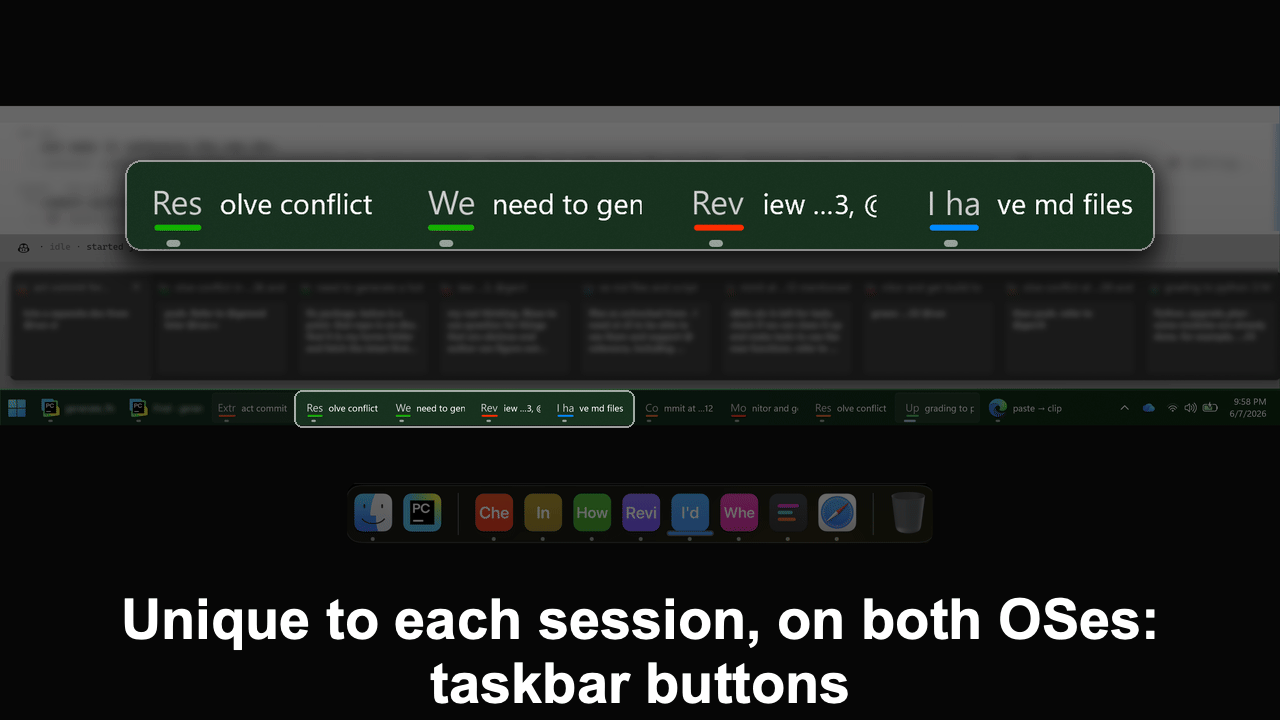
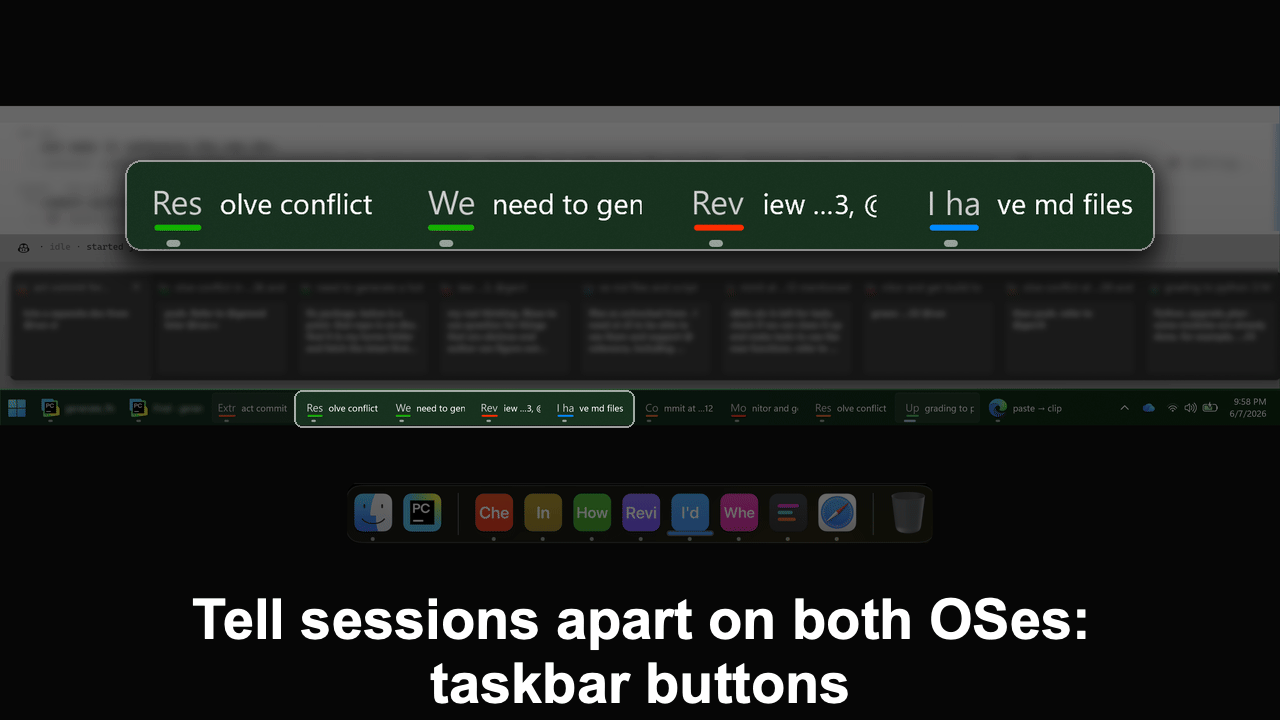
docs: make opening demo captions more direct
Use Tell sessions apart on both OSes above the Dock and taskbar examples. Preserve screenshot pixels and animation timing, and refresh asset URLs.

Changed region(s): [[0.0938, 0.825, 0.9062, 0.9167]]

diff --git a/README.md b/README.md
@@ -11,9 +11,9 @@
 
 A terminal for AI CLIs, expanding each session into its own rich visual workspace for the new way of working *(autoplays after loading)*:
 
-[![stills from the terminal: session tiles, the picker, commenting on output, writing on a plan, a curated review, and phone status and session views](docs/assets/hero-demo-f2b2081d509f.gif)](https://raw.githubusercontent.com/albertwujj/agent-term/main/docs/assets/hero-demo-f2b2081d509f.gif)
+[![stills from the terminal: session tiles, the picker, commenting on output, writing on a plan, a curated review, and phone status and session views](docs/assets/hero-demo-3281653abcbd.gif)](https://raw.githubusercontent.com/albertwujj/agent-term/main/docs/assets/hero-demo-3281653abcbd.gif)
 
-*View a frame:* [Tell apart 1](https://raw.githubusercontent.com/albertwujj/agent-term/main/docs/assets/frames/sessions-1.png?v=79f36ffbdc56) · [Tell apart 2](https://raw.githubusercontent.com/albertwujj/agent-term/main/docs/assets/frames/sessions-2.png?v=10025b4964c5) · [Resume](https://raw.githubusercontent.com/albertwujj/agent-term/main/docs/assets/frames/resume.png) · [Comment](https://raw.githubusercontent.com/albertwujj/agent-term/main/docs/assets/frames/comment.png) · [Docs 1](https://raw.githubusercontent.com/albertwujj/agent-term/main/docs/assets/frames/docs-1.png) · [Docs 2](https://raw.githubusercontent.com/albertwujj/agent-term/main/docs/assets/frames/docs-2.png) · [Docs 3](https://raw.githubusercontent.com/albertwujj/agent-term/main/docs/assets/frames/docs-3.png) · [Code 1](https://raw.githubusercontent.com/albertwujj/agent-term/main/docs/assets/frames/code-1.png) · [Code 2](https://raw.githubusercontent.com/albertwujj/agent-term/main/docs/assets/frames/code-2.png) · [Code 3](https://raw.githubusercontent.com/albertwujj/agent-term/main/docs/assets/frames/code-3.png) · [Phone 1](https://raw.githubusercontent.com/albertwujj/agent-term/main/docs/assets/frames/phone-1-e58c3dbfe6c6.png) · [Phone 2](https://raw.githubusercontent.com/albertwujj/agent-term/main/docs/assets/frames/phone-2-1266e3d01d5d.png).
+*View a frame:* [Tell apart 1](https://raw.githubusercontent.com/albertwujj/agent-term/main/docs/assets/frames/sessions-1.png?v=b140f0f859ed) · [Tell apart 2](https://raw.githubusercontent.com/albertwujj/agent-term/main/docs/assets/frames/sessions-2.png?v=e2686508a818) · [Resume](https://raw.githubusercontent.com/albertwujj/agent-term/main/docs/assets/frames/resume.png) · [Comment](https://raw.githubusercontent.com/albertwujj/agent-term/main/docs/assets/frames/comment.png) · [Docs 1](https://raw.githubusercontent.com/albertwujj/agent-term/main/docs/assets/frames/docs-1.png) · [Docs 2](https://raw.githubusercontent.com/albertwujj/agent-term/main/docs/assets/frames/docs-2.png) · [Docs 3](https://raw.githubusercontent.com/albertwujj/agent-term/main/docs/assets/frames/docs-3.png) · [Code 1](https://raw.githubusercontent.com/albertwujj/agent-term/main/docs/assets/frames/code-1.png) · [Code 2](https://raw.githubusercontent.com/albertwujj/agent-term/main/docs/assets/frames/code-2.png) · [Code 3](https://raw.githubusercontent.com/albertwujj/agent-term/main/docs/assets/frames/code-3.png) · [Phone 1](https://raw.githubusercontent.com/albertwujj/agent-term/main/docs/assets/frames/phone-1-e58c3dbfe6c6.png) · [Phone 2](https://raw.githubusercontent.com/albertwujj/agent-term/main/docs/assets/frames/phone-2-1266e3d01d5d.png).
 
 *Dive deeper:* [Tell apart](docs/sessions.md#switch-to-the-right-running-session) · [Resume](docs/sessions.md#find-and-resume-sessions) · [Comment](docs/comment.md) · [Docs](docs/plan.md) · [Code](docs/review.md) · [Phone](docs/phone.md).
 
